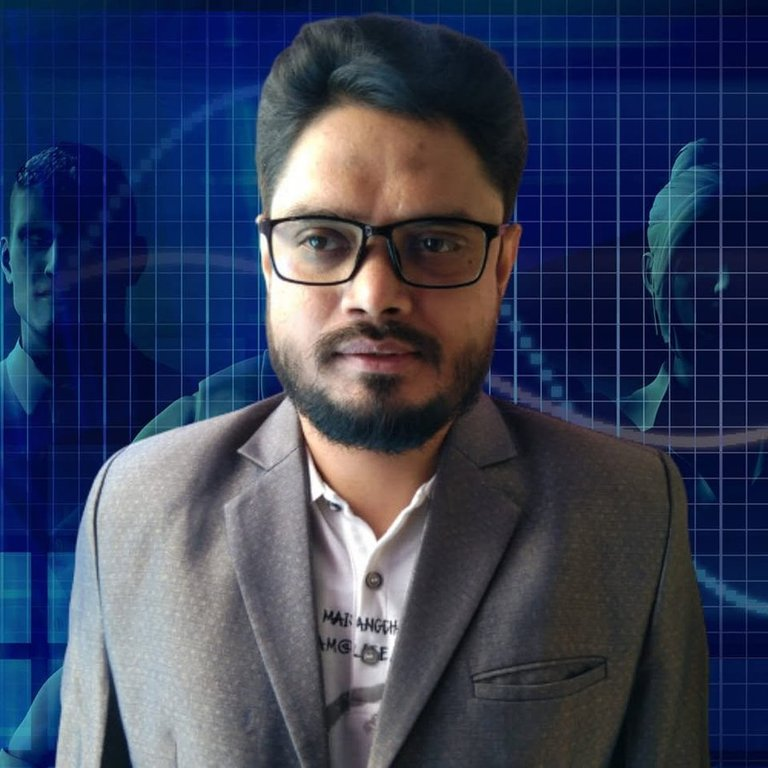
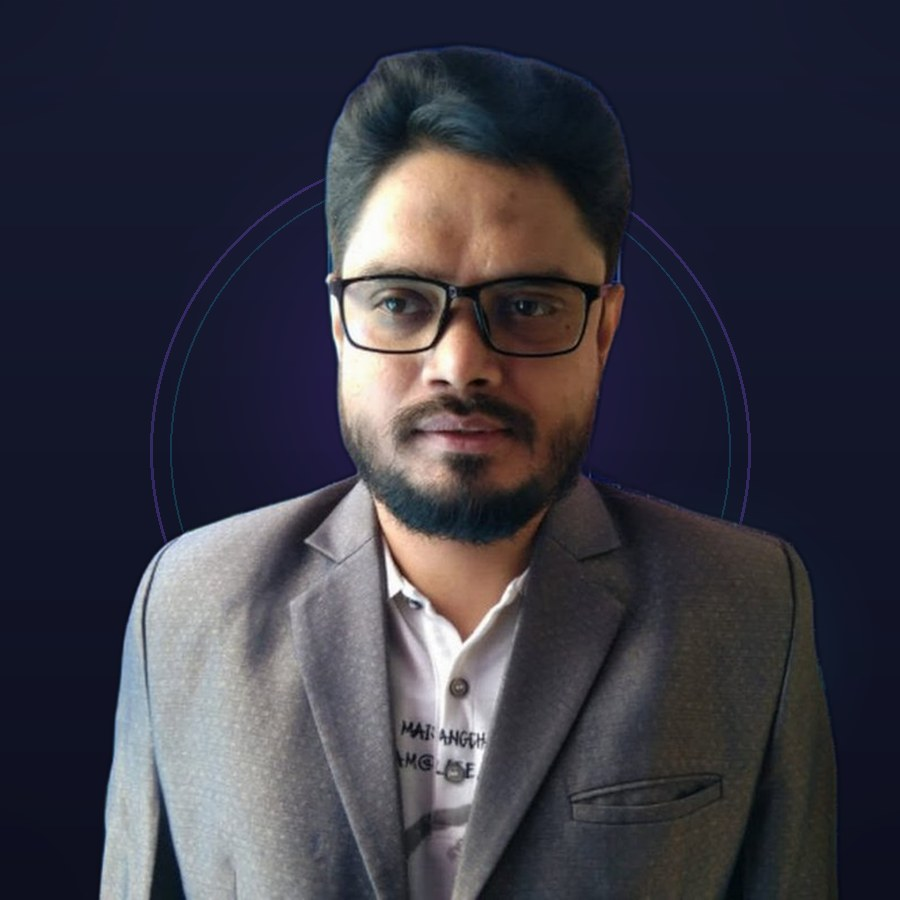
Add files via upload

diff --git a/index.html b/index.html
@@ -750,7 +750,9 @@ footer .heart{color:#f43f5e}
 
 /* ============ RESPONSIVE ============ */
 @media(max-width:1024px){
-  .hero-grid{grid-template-columns:1fr;text-align:center;gap:56px}
+  .hero-grid{grid-template-columns:1fr;text-align:center;gap:44px}
+  .stats{grid-template-columns:repeat(4,1fr);gap:12px}
+  .stat .num{font-size:1.6rem}
   .hero p.lead{margin-left:auto;margin-right:auto}
   .hero-actions,.hero .socials{justify-content:center}
   .services-grid,.portfolio-grid{grid-template-columns:repeat(2,1fr)}
@@ -758,7 +760,22 @@ footer .heart{color:#f43f5e}
   .stats{grid-template-columns:repeat(2,1fr)}
 }
 @media(max-width:768px){
-  section{padding:72px 20px}
+  section{padding:56px 20px}
+  .hero-visual{order:-1;margin-bottom:30px}
+  .avatar-ring{width:min(240px,64vw)}
+  .avatar-inner .big-b{font-size:5.2rem}
+  .float-chip{padding:8px 12px;font-size:.66rem;border-radius:11px}
+  .float-chip .chip-ico{width:26px;height:26px;border-radius:7px}
+  .float-chip small{font-size:.58rem}
+  .chip-1{top:-3%;left:0}
+  .chip-2{bottom:8%;right:-3%}
+  .chip-3{bottom:-4%;left:4%}
+  .hero h1{font-size:clamp(1.8rem,8.4vw,2.4rem)}
+  .typed-wrap{font-size:clamp(1rem,5vw,1.25rem);min-height:1.9em}
+  .hero p.lead{font-size:.95rem}
+  .contact-form{padding:26px 18px}
+  .modal{padding:26px 20px}
+  .lb-caption{font-size:.8rem}
   .nav-links{
     position:fixed;inset:0;background:rgba(8,10,18,.98);flex-direction:column;justify-content:center;
     gap:26px;font-size:1.2rem;display:none;z-index:1000;
@@ -781,11 +798,20 @@ footer .heart{color:#f43f5e}
   .about-list .k{min-width:84px}
 }
 @media(max-width:480px){
-  #home{padding-top:130px}
-  .hero h1{font-size:1.85rem}
-  .ticker-item{font-size:.68rem;padding:0 10px}
-  .stats{gap:10px}
-  .stat{padding:18px 10px}
+  #home{padding-top:118px;padding-bottom:56px}
+  .hero h1{font-size:1.7rem}
+  .hero-slogan{font-size:.88rem}
+  .ticker{height:28px}
+  .ticker-item{font-size:.66rem;padding:0 10px}
+  .stats{gap:8px}
+  .stat{padding:16px 8px;border-radius:12px}
+  .stat .num{font-size:1.35rem}
+  .stat .label{font-size:.74rem}
+  .avatar-ring{width:min(210px,60vw)}
+  .hero-badge{font-size:.72rem;padding:6px 12px}
+  .sec-head h2{font-size:1.5rem}
+  .service-card{padding:24px 18px}
+  .contact-item{padding:16px 14px}
 }
 @media(prefers-reduced-motion:reduce){
   *,*::before,*::after{animation-duration:.01ms !important;transition-duration:.01ms !important}
